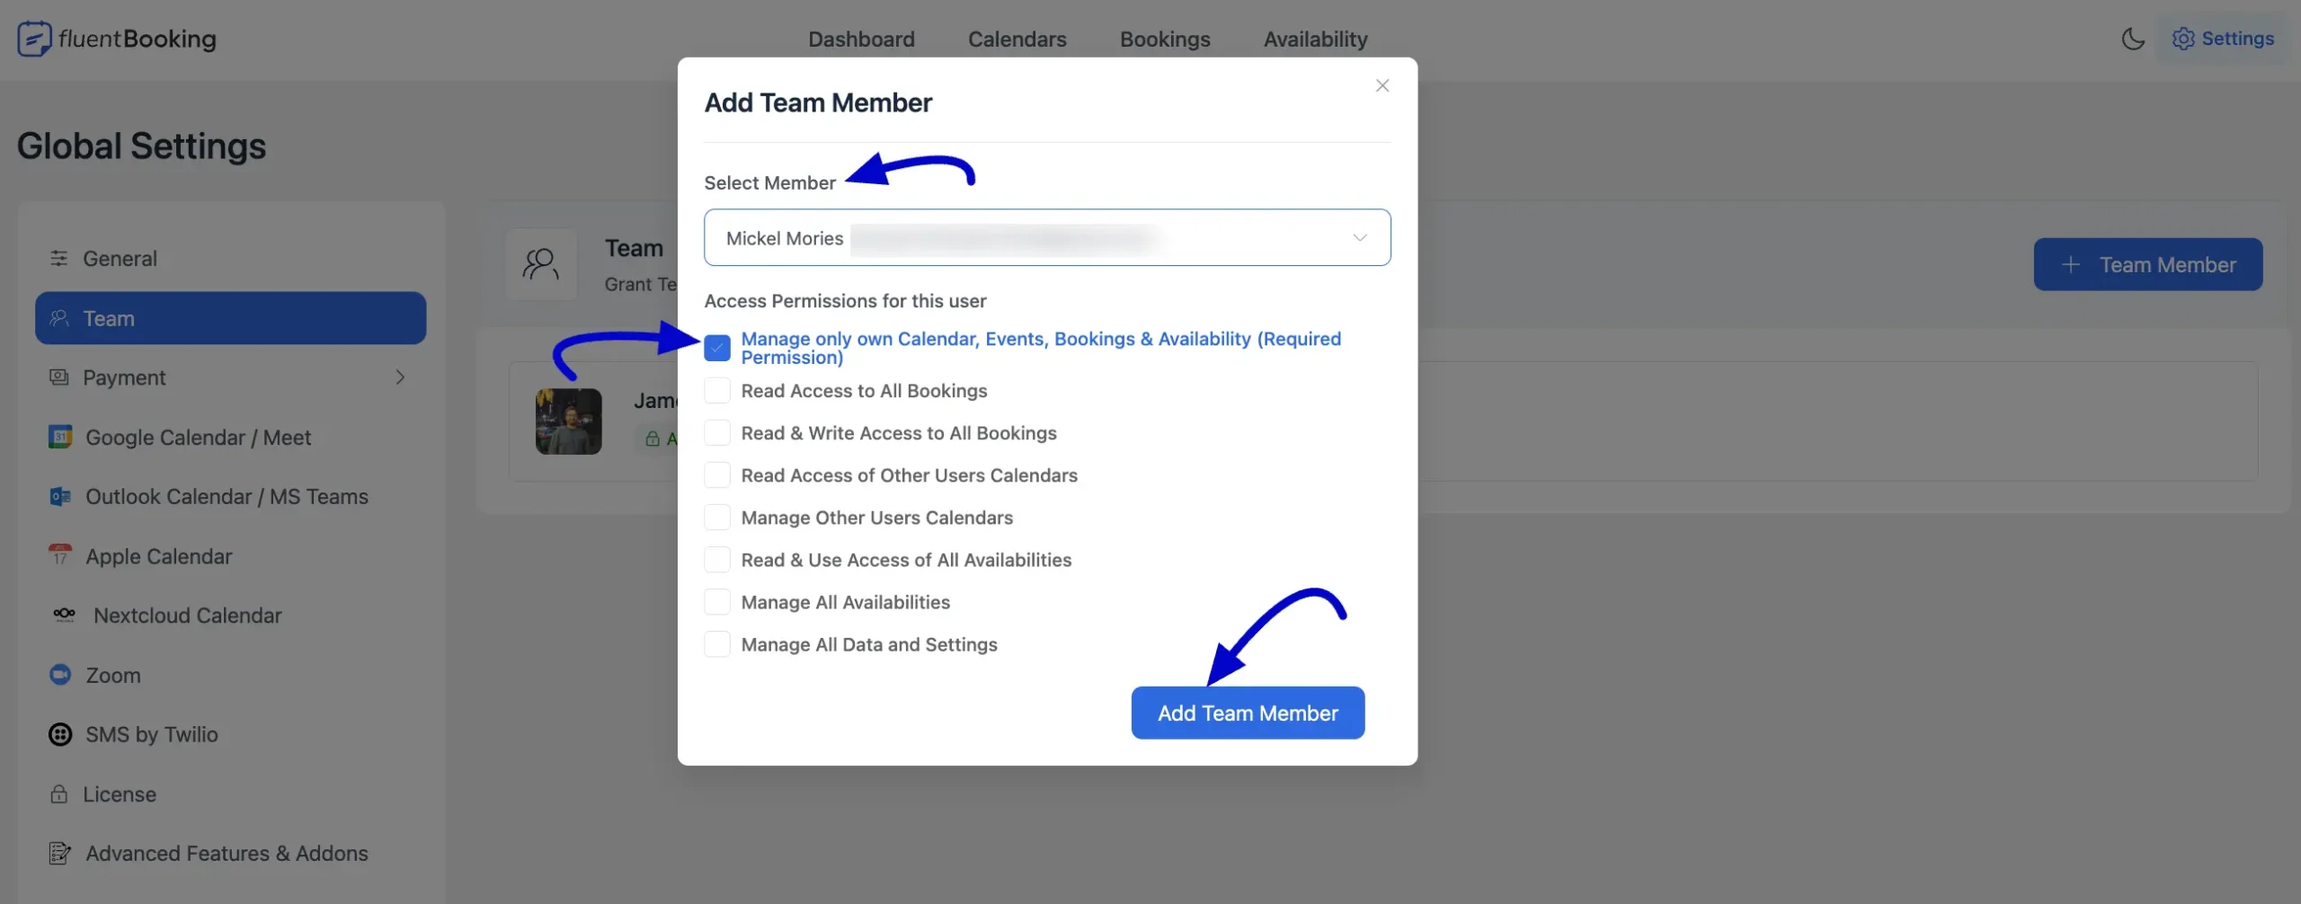
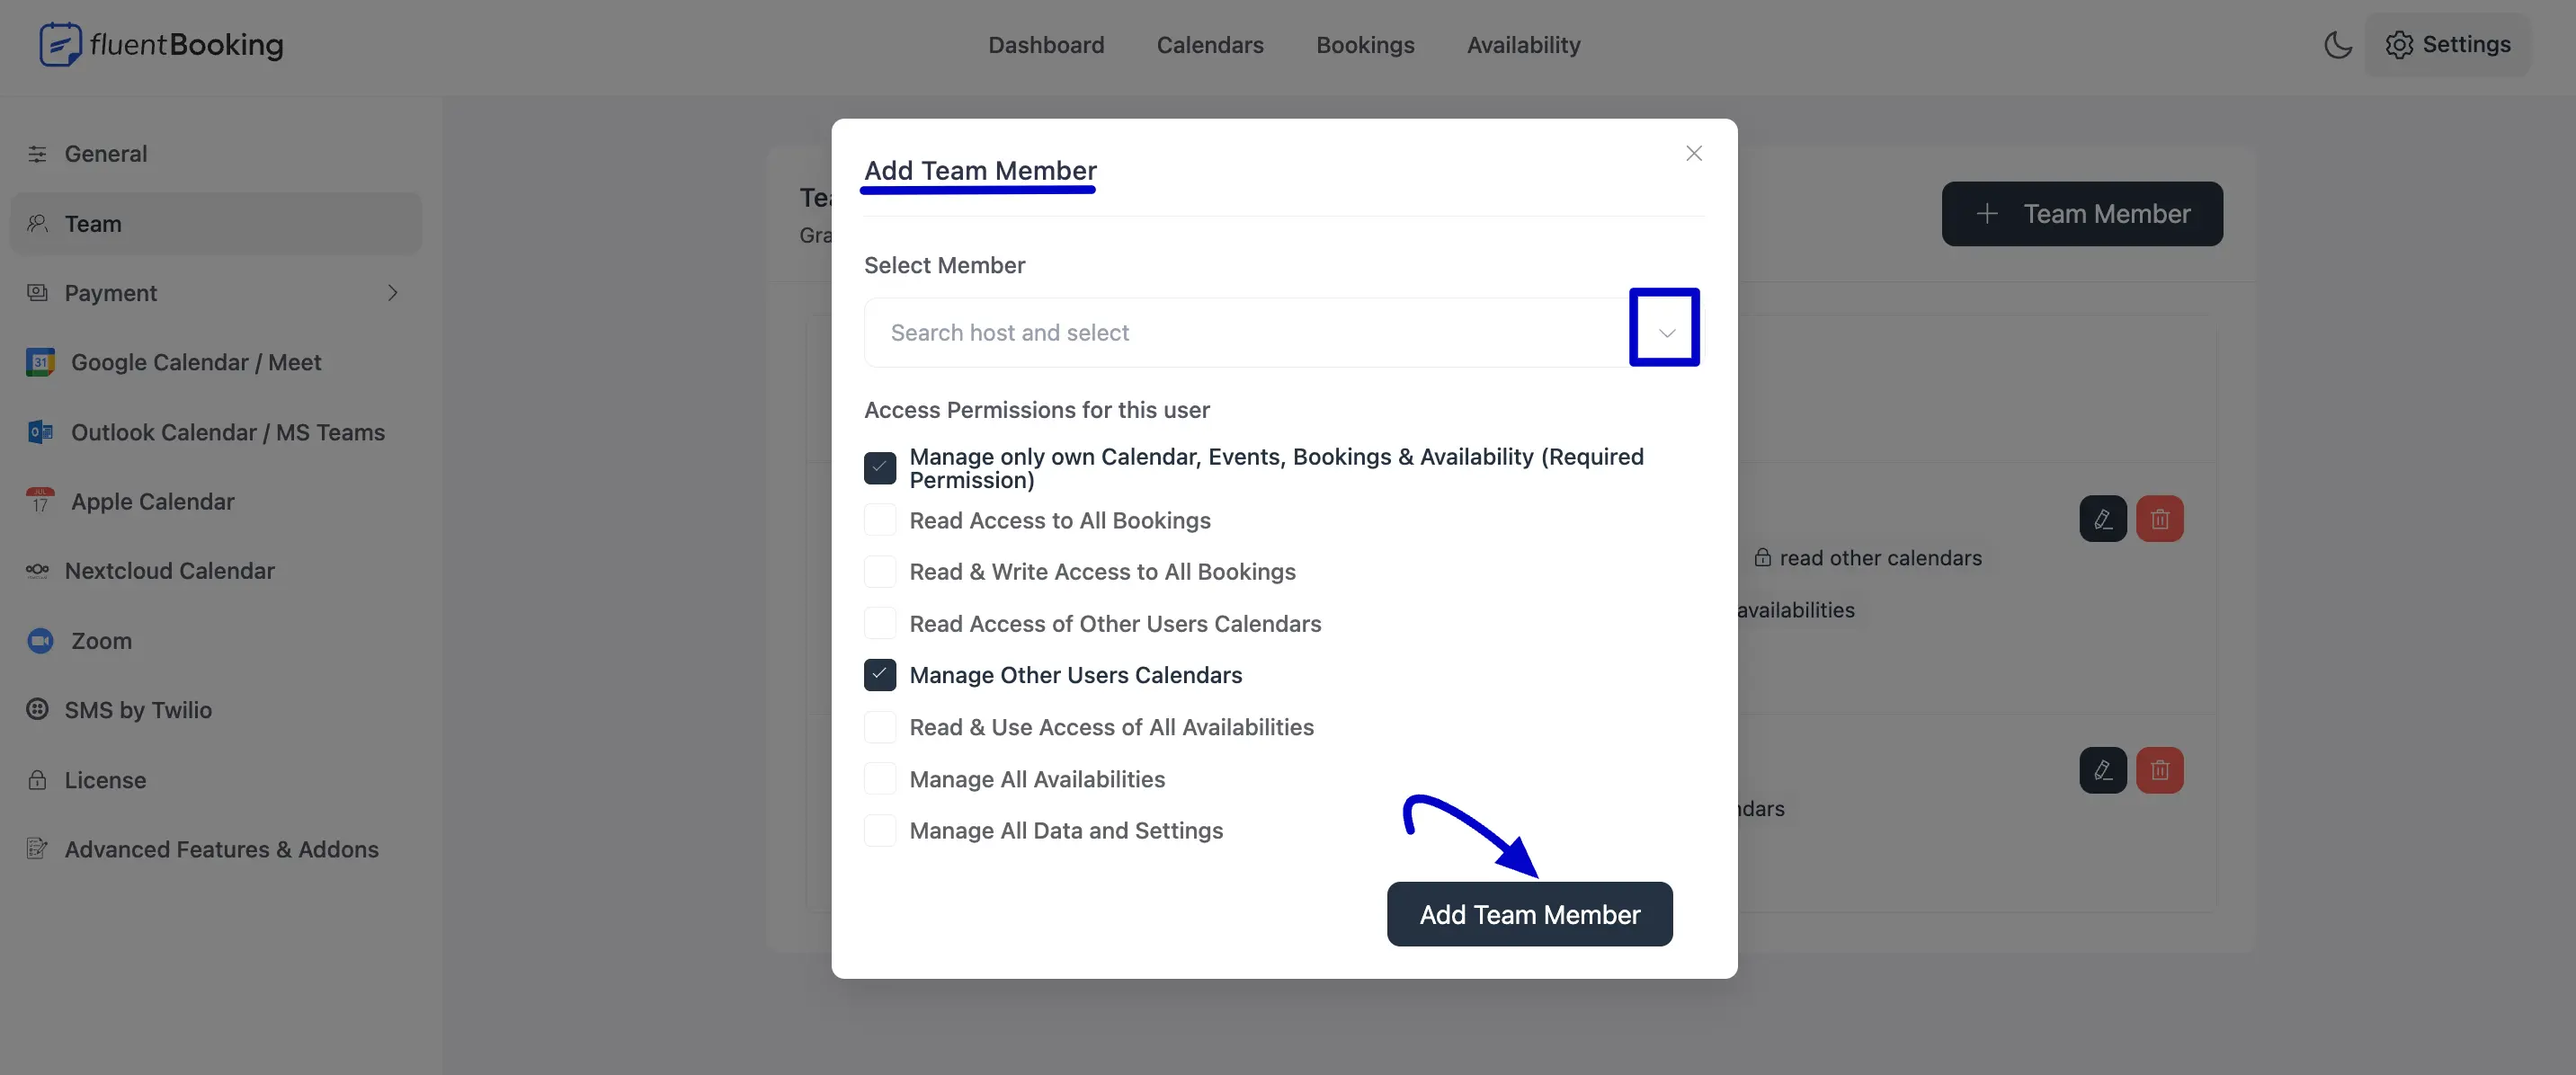
update Team Permissions & Access and image update

diff --git a/docs/host-events/host-user-access-management.md b/docs/host-events/host-user-access-management.md
@@ -17,9 +17,12 @@ Admin can make WordPress **Contributor, Author**, and **Editor** users as a **Ho
 
 Admin can also set permission for their Host to manage the bookings; the permission can be Read, Write, or both. Go to the FluentBooking dashboard, select **Settings**, and you will find the option **Team** in the left sidebar click on it.
 
+>[!Note]
+> Only WordPress Administrators can add, edit, or delete team permissions. These controls are not shown to other roles.
+
 ![Team](/images/host-events/host-user-access-management/team-management-fluentbooking-1.webp)
 
-Here you will see the Team Member button. Click on it to **Add Team Member**. It will save the host's permissions.
+Each team member's card shows their granted permissions as tags, so you can see access levels at a glance. Click the **+ Team Member** button to open **Add Team Member**, search for and select a host, then choose their permissions. It will save the host's permissions.
 
 These are the permissions that the Admin can set for the Host.
 
@@ -28,7 +31,7 @@ These are the permissions that the Admin can set for the Host.
 - Read & Write Access to All Bookings
 - Read Access of Other Users Calendars
 - Manage Other Users Calendars
-- Read & Use Access to All Availabilities
+- Read & Use Access of All Availabilities
 - Manage All Availabilities
 - Manage All Data and Settings
 
@@ -39,11 +42,6 @@ Team settings also include an **Event Types** tab, right after **Calendar Settin
 You can edit this host permission anytime by clicking the button on the right side. You will find a delete button also.
 
 >[!Note]
->You cannot delete a host if they have active meetings booked.
+> You cannot delete a host if they have active meetings booked.
 
 ![Edit Permission](/images/host-events/host-user-access-management/3-5.webp)
-
-## Next steps
-
-- [Host Profile Settings](/host-settings) — fill in the host's avatar and public details, and browse the calendar's **Event Types** tab.
-- [Create a Booking Event](/how-to-create-new-events) — create the first event for this host.
